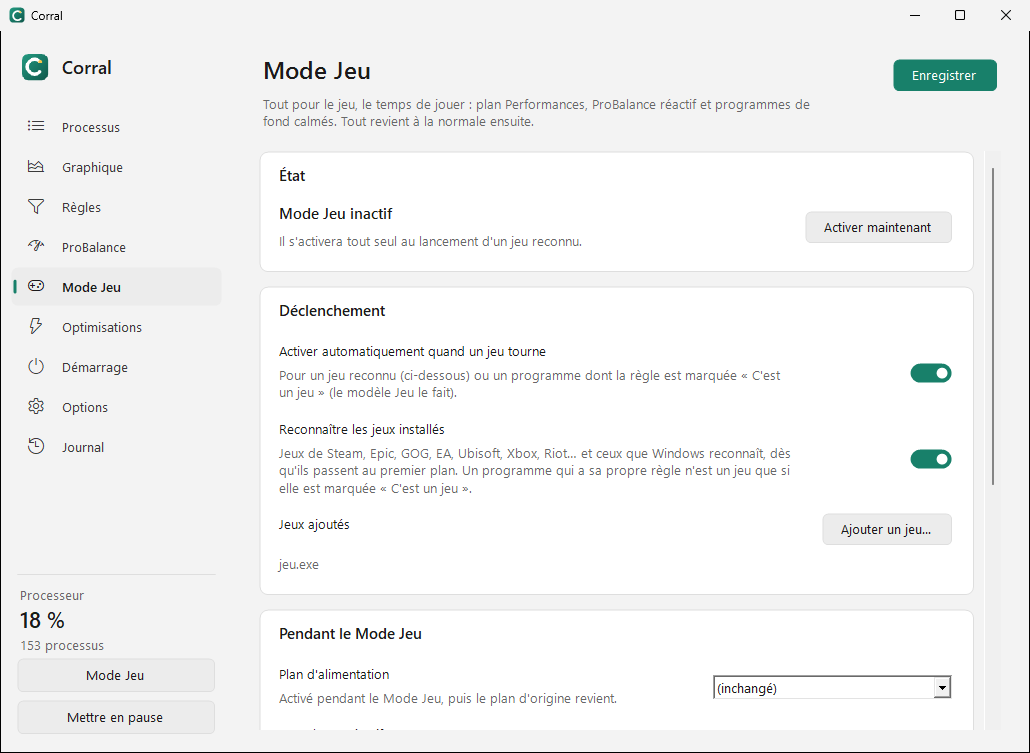
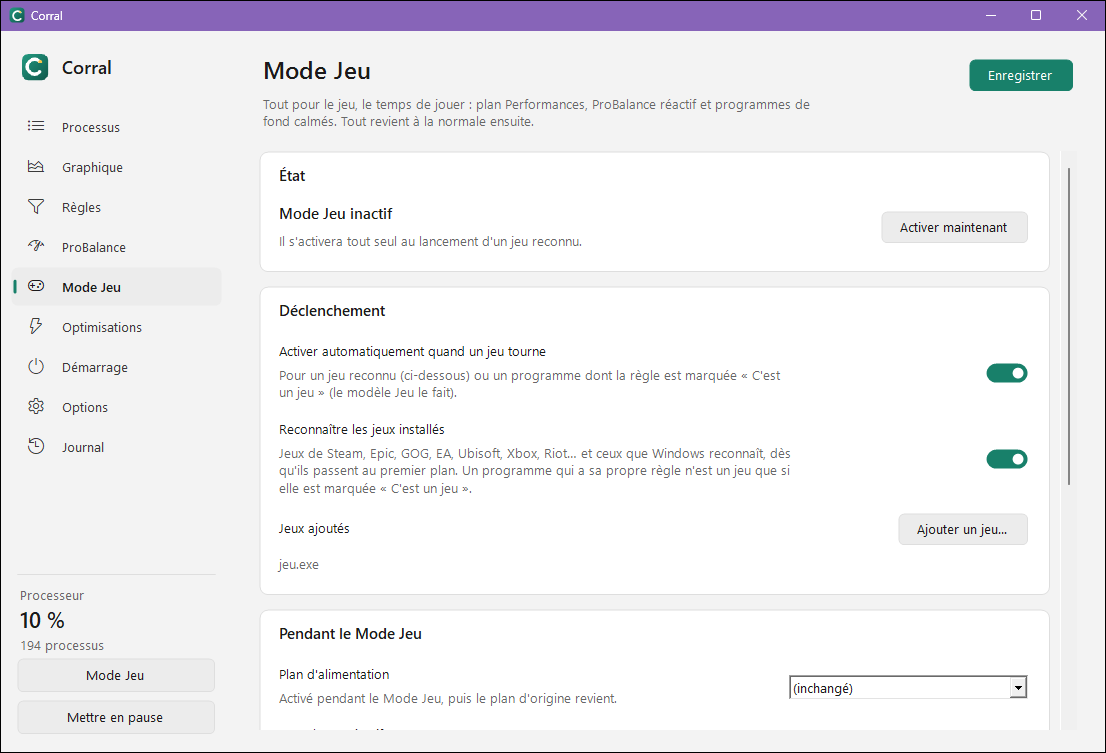
Finitions de l'interface et nettoyage après la 3.3.0 (#47)
- Règles : colonne Cœurs élargie (« 8 (CPU Sets) » était tronqué).
- Processus : colonne Disque élargie (« 19,8 Mo/s » était tronqué).
- En-tête des pages : la phrase d'explication passe sous les boutons, sur
  toute la largeur (sur Règles, elle se tassait sur 5 lignes).
- Lignes de réglage sans description : libellé centré sur le contrôle
  (« Après », « Seuil » étaient décalés).
- Options : listes Thème et Langue de même largeur.
- Fiche d'un processus : le focus va sur Fermer, le champ Nom n'est plus
  sélectionné à l'ouverture.
- Conditions : « de 09:00 à 18:00 » au lieu de « 09:00-18:00 », qui se
  coupait au tiret ; point final à l'aide.
- Import de règles : UseCpuSets retiré quand le masque est invalide.
- Tests : avertissement xUnit1030 voulu, signalé comme tel ; captures sur
  l'écran secondaire s'il existe, règle chrome* en CPU Sets.
- Doc : captures refaites (règle, ProBalance, Mode Jeu) ; regles.png,
  référencée nulle part, supprimée.

diff --git a/tests/Corral.Tests/ScreenshotTests.cs b/tests/Corral.Tests/ScreenshotTests.cs
@@ -25,18 +25,18 @@ public class ScreenshotTests
                 Theme.Set(mode);
                 var settings = new Settings { Theme = mode };
                 settings.ProBalance.Enabled = false;
-                settings.Rules.Add(new Rule { Pattern = "chrome*", Priority = System.Diagnostics.ProcessPriorityClass.BelowNormal, AffinityMask = 0xFF });
+                settings.Rules.Add(new Rule { Pattern = "chrome*", Priority = System.Diagnostics.ProcessPriorityClass.BelowNormal, AffinityMask = 0xFF, UseCpuSets = true });
                 settings.Rules.Add(new Rule { Pattern = "jeu.exe", Priority = System.Diagnostics.ProcessPriorityClass.High, IsGame = true, EfficiencyMode = false });
                 settings.Rules.Add(new Rule { Pattern = "sauvegarde*", Enabled = false, Priority = System.Diagnostics.ProcessPriorityClass.Idle, CpuLimitPercent = 20, MemoryLimitMB = 2048 });
                 using var engine = new Engine(RuleStore.Clone(settings), new NoPower(), foregroundPid: () => -1);
                 settings.ProBalance.Enabled = true; // seulement côté interface : affiche le seuil sans que le moteur agisse
-                using var form = new MainForm(engine, new RuleStore(Path.Combine(configDir, "config.json")), settings) { TopMost = true, StartPosition = FormStartPosition.Manual, Location = new Point(40, 40) };
+                using var form = new MainForm(engine, new RuleStore(Path.Combine(configDir, "config.json")), settings) { TopMost = true, StartPosition = FormStartPosition.Manual, Location = Origin + new Size(40, 40) };
                 form.Show();
                 engine.Start();
                 Pump(2500);
                 Capture(form, Path.Combine(outDir, $"shot-{mode}.png"));
 
-                using (var overlay = new OverlayWindow(new OverlaySettings { X = 1200, Y = 40 }))
+                using (var overlay = new OverlayWindow(new OverlaySettings { X = Origin.X + 1200, Y = Origin.Y + 40 }))
                 {
                     overlay.Show();
                     overlay.SetSnapshot(new EngineSnapshot(67, false, Array.Empty<ProcessRow>(), GameMode: true, MemoryUsed: 11L << 30, MemoryTotal: 32L << 30));
@@ -93,7 +93,7 @@ public class ScreenshotTests
                 }
 
                 settings.Rules[0].When = new RuleCondition { Power = PowerSource.Battery, From = new TimeOnly(9, 0), To = new TimeOnly(18, 0), Days = new() { DayOfWeek.Monday, DayOfWeek.Tuesday, DayOfWeek.Wednesday, DayOfWeek.Thursday, DayOfWeek.Friday } };
-                using var dlg = new RuleDialog(settings.Rules[0], PowerCfg.List(), isNew: false, new[] { "chrome", "chrome", "chrome", "code", "System" }) { TopMost = true, StartPosition = FormStartPosition.Manual, Location = new Point(1200, 40) };
+                using var dlg = new RuleDialog(settings.Rules[0], PowerCfg.List(), isNew: false, new[] { "chrome", "chrome", "chrome", "code", "System" }) { TopMost = true, StartPosition = FormStartPosition.Manual, Location = Origin + new Size(1200, 40) };
                 dlg.Show();
                 Pump(500);
                 Capture(dlg, Path.Combine(outDir, $"shot-{mode}-dialog.png"));
@@ -107,7 +107,7 @@ public class ScreenshotTests
                     var t0 = DateTime.UtcNow.AddMinutes(-5);
                     for (int s = 0; s <= 300; s++)
                         hist.Add(t0.AddSeconds(s), new[] { new ProcessRow(explorer.Id, explorer.ProcessName, 3 + 2 * Math.Sin(s / 15.0), (180L << 20) + s * (1L << 18), null, false, IoBytesPerSec: s % 40 < 5 ? 3L << 20 : 20_000, Gpu: s > 200 ? 12 : 1) });
-                    using var details = new ProcessDetailsDialog(ProcessDetails.Read(explorer.Id), null, canCreateRule: true, hist) { TopMost = true, StartPosition = FormStartPosition.Manual, Location = new Point(1200, 40) };
+                    using var details = new ProcessDetailsDialog(ProcessDetails.Read(explorer.Id), null, canCreateRule: true, hist) { TopMost = true, StartPosition = FormStartPosition.Manual, Location = Origin + new Size(1200, 40) };
                     details.Show();
                     Pump(500);
                     Capture(details, Path.Combine(outDir, $"shot-{mode}-details.png"));
@@ -121,6 +121,9 @@ public class ScreenshotTests
         thread.Start();
         thread.Join();
     }
+
+    /// <summary>Fenêtres sur l'écran secondaire s'il y en a un : l'écran principal reste libre (jeu en cours).</summary>
+    static readonly Point Origin = Screen.AllScreens.FirstOrDefault(s => !s.Primary)?.WorkingArea.Location ?? Point.Empty;
 
     static T? Find<T>(Control root) where T : Control =>
         root is T match ? match : root.Controls.Cast<Control>().Select(Find<T>).FirstOrDefault(c => c != null);

diff --git a/src/Corral/UI/MainForm.cs b/src/Corral/UI/MainForm.cs
@@ -185,11 +185,13 @@ public sealed partial class MainForm : Form
         header.ColumnStyles.Add(new ColumnStyle(SizeType.Percent, 100));
         header.ColumnStyles.Add(new ColumnStyle(SizeType.AutoSize));
         header.Controls.Add(new Label { Text = title, Font = Ui.Title, AutoSize = true, Margin = new Padding(0) }, 0, 0);
-        header.Controls.Add(new Label { Text = description, AutoSize = true, Tag = Theme.HintTag, MaximumSize = new Size(560, 0), Margin = new Padding(2, 4, 0, 0) }, 0, 1);
+        // Sous les actions, sur toute la largeur : la phrase ne se tasse pas quand il y a beaucoup de boutons (Règles)
+        var hint = new Label { Text = description, AutoSize = true, Tag = Theme.HintTag, MaximumSize = new Size(560, 0), Margin = new Padding(2, 4, 0, 0) };
+        header.Controls.Add(hint, 0, 1);
+        header.SetColumnSpan(hint, 2);
         var bar = new FlowLayoutPanel { AutoSize = true, WrapContents = false, Anchor = AnchorStyles.Top | AnchorStyles.Right, Margin = new Padding(0, 6, 0, 0) };
         bar.Controls.AddRange(actions);
         header.Controls.Add(bar, 1, 0);
-        header.SetRowSpan(bar, 2);
 
         content.Dock = DockStyle.Fill;
         page.Controls.Add(content);
@@ -203,7 +205,8 @@ public sealed partial class MainForm : Form
         var row = new TableLayoutPanel { AutoSize = true, ColumnCount = 2, Dock = DockStyle.Fill, Margin = new Padding(0, 4, 0, 8) };
         row.ColumnStyles.Add(new ColumnStyle(SizeType.Percent, 100));
         row.ColumnStyles.Add(new ColumnStyle(SizeType.AutoSize));
-        var text = new TableLayoutPanel { AutoSize = true, ColumnCount = 1, Dock = DockStyle.Fill, Margin = new Padding(0) };
+        // Sans description, le libellé est centré verticalement sur le contrôle, comme lui
+        var text = new TableLayoutPanel { AutoSize = true, ColumnCount = 1, Dock = description == null ? DockStyle.None : DockStyle.Fill, Anchor = AnchorStyles.Left, Margin = new Padding(0) };
         text.Controls.Add(new Label { Text = label, AutoSize = true, Margin = new Padding(0, 2, 0, 0) });
         if (description != null)
             text.Controls.Add(new Label { Text = description, AutoSize = true, Tag = Theme.HintTag, MaximumSize = new Size(520, 0), Margin = new Padding(0, 2, 0, 0) });

diff --git a/tests/Corral.Tests/QolTests.cs b/tests/Corral.Tests/QolTests.cs
@@ -1,4 +1,4 @@
-using System.Diagnostics;
+using System.Diagnostics;
 using Corral.Core;
 using Corral.Models;
 
@@ -39,7 +39,7 @@ public class ImportExportTests : IDisposable
         var file = Path.Combine(dir, "regles.json");
         File.WriteAllText(file, """
             { "Rules": [
-                { "Pattern": "  ok.exe  ", "AffinityMask": 0, "CpuLimitPercent": 150 },
+                { "Pattern": "  ok.exe  ", "AffinityMask": 0, "UseCpuSets": true, "CpuLimitPercent": 150 },
                 { "Pattern": "" },
                 null
             ] }
@@ -47,6 +47,7 @@ public class ImportExportTests : IDisposable
         var rule = Assert.Single(RuleStore.ImportRules(file));
         Assert.Equal("ok.exe", rule.Pattern);
         Assert.Null(rule.AffinityMask);
+        Assert.False(rule.UseCpuSets);
         Assert.Null(rule.CpuLimitPercent);
     }
 

diff --git a/src/Corral/UI/RuleDialog.cs b/src/Corral/UI/RuleDialog.cs
@@ -391,7 +391,7 @@ public sealed class RuleDialog : Form
         var when = ReadCondition();
         whenHelp.Text = when == null
             ? Tr("La règle s'applique tout le temps.", "The rule always applies.")
-            : Tr($"La règle ne s'applique que {when.Describe()} ; en dehors, Corral annule ses effets", $"The rule only applies {when.Describe()}; otherwise, Corral undoes its effects");
+            : Tr($"La règle ne s'applique que {when.Describe()} ; en dehors, Corral annule ses effets.", $"The rule only applies {when.Describe()}; otherwise, Corral undoes its effects.");
 
         var p = ((Choice<ProcessPriorityClass?>?)priority.SelectedItem)?.Value;
         priorityHelp.Text = p is { } v && PriorityHelp.TryGetValue(v, out var help) ? help : Tr("La priorité du programme n'est pas modifiée.", "The program's priority is not changed.");

diff --git a/src/Corral/Models/Settings.cs b/src/Corral/Models/Settings.cs
@@ -95,13 +95,13 @@ public sealed class RuleCondition
         return c.IsAlways ? null : c;
     }
 
-    /// <summary>« sur batterie · 09:00-18:00 · lun., mar. »</summary>
+    /// <summary>« sur batterie · de 09:00 à 18:00 · lun., mar. »</summary>
     public string Describe()
     {
         var parts = new List<string>();
         if (Power == PowerSource.AC) parts.Add(Tr("sur secteur", "on AC power"));
         if (Power == PowerSource.Battery) parts.Add(Tr("sur batterie", "on battery"));
-        if (HasTime) parts.Add($"{From:HH:mm}-{To:HH:mm}");
+        if (HasTime) parts.Add(Tr($"de {From:HH:mm} à {To:HH:mm}", $"from {From:HH:mm} to {To:HH:mm}"));
         if (HasDays)
         {
             var culture = System.Globalization.CultureInfo.GetCultureInfo(Corral.Core.Lang.English ? "en-US" : "fr-FR");

diff --git a/src/Corral/UI/MainForm.Rules.cs b/src/Corral/UI/MainForm.Rules.cs
@@ -26,8 +26,8 @@ public sealed partial class MainForm
         ruleList.Columns.Add(Tr("Processus", "Process"), 170);
         ruleList.Columns.Add(Tr("État", "Status"), 90);
         ruleList.Columns.Add(Tr("Priorité", "Priority"), 170);
-        ruleList.Columns.Add(Tr("Cœurs", "Cores"), 80);
-        ruleList.Columns.Add(Tr("Autres réglages", "Other settings"), 330);
+        ruleList.Columns.Add(Tr("Cœurs", "Cores"), 110);
+        ruleList.Columns.Add(Tr("Autres réglages", "Other settings"), 300);
         Theme.StyleList(ruleList, (item, col) => col == 1
             ? new Theme.CellStyle(Text: item.SubItems[1].Text == "Inactive" ? "○ Inactive" : "● Active",
                 Fore: item.SubItems[1].Text == "Inactive" ? Theme.Current.Muted : Theme.Current.Accent)

diff --git a/tests/Corral.Tests/ImpersonationTests.cs b/tests/Corral.Tests/ImpersonationTests.cs
@@ -1,4 +1,4 @@
-using System.IO.Pipes;
+using System.IO.Pipes;
 using System.Security.Principal;
 using Corral.Service;
 
@@ -22,7 +22,9 @@ public class ImpersonationTests
             var wait = server.WaitForConnectionAsync();
             using var client = Protocol.OpenClient(name, RemoteEngine.ClientRights, 5000);
             Assert.NotNull(client);
-            await wait.ConfigureAwait(false); // suite sur un thread du pool, comme AcceptLoop
+#pragma warning disable xUnit1030 // voulu : la suite doit tourner sur un thread du pool, comme AcceptLoop
+            await wait.ConfigureAwait(false);
+#pragma warning restore xUnit1030
 
             var inside = TokenImpersonationLevel.None;
             Exception? error = null;

diff --git a/src/Corral/UI/MainForm.Processes.cs b/src/Corral/UI/MainForm.Processes.cs
@@ -29,7 +29,7 @@ public sealed partial class MainForm
         procList.Columns.Add("PID", 70, HorizontalAlignment.Right);
         procList.Columns.Add("CPU", 80, HorizontalAlignment.Right);
         procList.Columns.Add(Tr("Mémoire", "Memory"), 86, HorizontalAlignment.Right);
-        procList.Columns.Add(Tr("Disque", "Disk"), 80, HorizontalAlignment.Right);
+        procList.Columns.Add(Tr("Disque", "Disk"), 96, HorizontalAlignment.Right);
         procList.Columns.Add("GPU", 60, HorizontalAlignment.Right);
         procList.Columns.Add(Tr("Règle", "Rule"), 120);
         procList.Columns.Add("ProBalance", 100);

diff --git a/tests/Corral.Tests/ConditionTests.cs b/tests/Corral.Tests/ConditionTests.cs
@@ -1,4 +1,4 @@
-using System.Diagnostics;
+using System.Diagnostics;
 using Corral.Core;
 using Corral.Models;
 
@@ -118,7 +118,7 @@ public class ConditionTests : IDisposable
         engine.TickOnce();
         ping.Refresh();
         Assert.Equal(orig, ping.PriorityClass);
-        Assert.Contains("09:00-18:00", RuleText.Summary(s.Rules[0]));
+        Assert.Contains("de 09:00 à 18:00", RuleText.Summary(s.Rules[0]));
         engine.Stop();
     }
 }

diff --git a/src/Corral/Core/RuleStore.cs b/src/Corral/Core/RuleStore.cs
@@ -87,6 +87,7 @@ public sealed class RuleStore : ISettingsStore
             r.Pattern = r.Pattern.Trim();
             if (r.AffinityMask is { } m && !RuleMatcher.IsValidAffinity(m, Environment.ProcessorCount))
                 r.AffinityMask = null;
+            r.UseCpuSets &= r.AffinityMask != null;
             if (r.CpuLimitPercent is < 1 or > 99) r.CpuLimitPercent = null;
             if (r.MemoryLimitMB is < 1) r.MemoryLimitMB = null;
         }

diff --git a/src/Corral/UI/MainForm.Options.cs b/src/Corral/UI/MainForm.Options.cs
@@ -7,7 +7,7 @@ namespace Corral.UI;
 // Page « Options » : apparence, démarrage, mises à jour, raccourcis globaux.
 public sealed partial class MainForm
 {
-    readonly ComboBox themeChoice = new() { DropDownStyle = ComboBoxStyle.DropDownList, Width = 180 };
+    readonly ComboBox themeChoice = new() { DropDownStyle = ComboBoxStyle.DropDownList, Width = 220 };
     readonly ToggleSwitch autoStart = new();
     bool updatingAutoStart;
 

diff --git a/src/Corral/UI/ProcessDetailsDialog.cs b/src/Corral/UI/ProcessDetailsDialog.cs
@@ -1,4 +1,4 @@
-using System.Diagnostics;
+using System.Diagnostics;
 using Corral.Core;
 
 namespace Corral.UI;
@@ -113,6 +113,7 @@ public sealed class ProcessDetailsDialog : Form
         Controls.Add(grid);
         AcceptButton = close;
         CancelButton = close;
+        ActiveControl = close; // sinon le premier champ s'ouvre avec son texte sélectionné
         Theme.Apply(this);
     }
 
